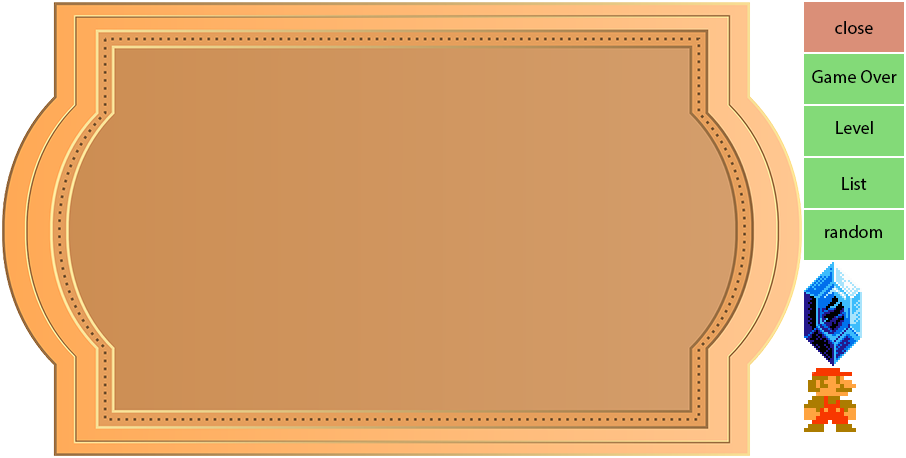
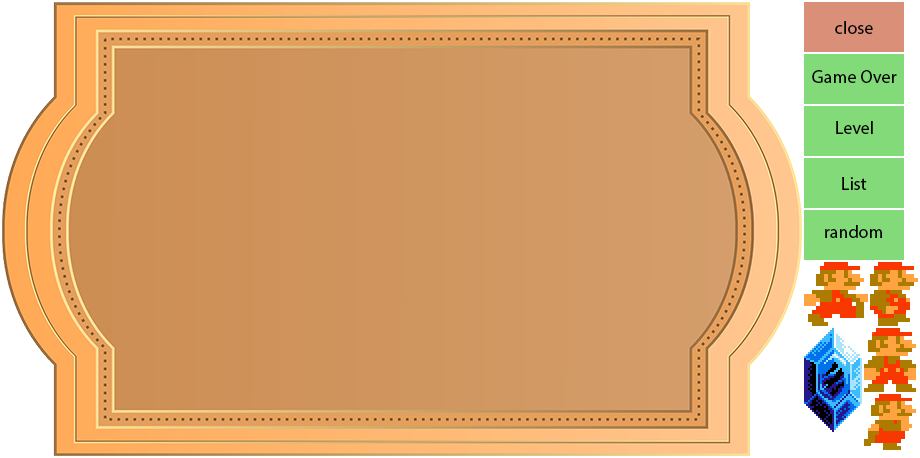
(Working) Writing Readme

diff --git a/dist/example/js/dialogs.js b/dist/example/js/dialogs.js
@@ -102,7 +102,7 @@ Phaser.Plugin.Dialogs.prototype.createDialog = function createDialog (config) {
         bgScreenAlpha = config.bgScreenAlpha || 0.7,
         fadeInType = config.fadeInType || '',
         fadeOutType = config.fadeOutType || '',
-        objects = config.objects || [1,1,1];
+        objects = config.objects || [];
 
     var bgScreen;
     var dialog = this.game.add.group();
@@ -114,7 +114,6 @@ Phaser.Plugin.Dialogs.prototype.createDialog = function createDialog (config) {
 
 
     var initBgScreen = function initBg() {
-      console.log("????", hasBgScreen)
         bgScreen = self.game.add.graphics(0, 0);
         bgScreen.beginFill(bgScreenColor, bgScreenAlpha);
         bgScreen.drawRect(0 - self.game.width * 2, 0 - self.game.height * 2, self.game.width * 4, self.game.height * 4);
@@ -167,7 +166,8 @@ Phaser.Plugin.Dialogs.prototype.createDialog = function createDialog (config) {
                 offsetX = item.offsetX || 0,
                 offsetY = item.offsetY || 0,
                 contentScale = item.contentScale || 1,
-                content = item.content || "",
+                content = item.content || '',
+                animation = item.animation || [],
                 callback = item.callback || false,
                 label;
 
@@ -197,12 +197,17 @@ Phaser.Plugin.Dialogs.prototype.createDialog = function createDialog (config) {
             if (type === "image") {
                 if(spriteSheet !== '') {
                   label = self.game.add.sprite(0, 0, spriteSheet, content);
+                  if(animation.length > 0) {
+                    label.animations.add('anim', animation);
+                    label.animations.play('anim', 10, true);
+                  }
                 } else{
                   label = self.game.add.sprite(0, 0, content);
                 }
                 label.scale.setTo(contentScale, contentScale);
                 label.x = (0 - ((label.width) / 2)) + offsetX;
                 label.y = (0 - ((label.height) / 2)) + offsetY;
+
                 if(callback) {
                   label.inputEnabled = true;
                   label.events.onInputDown.add(callback, self)

diff --git a/src/dialogs.js b/src/dialogs.js
@@ -102,7 +102,7 @@ Phaser.Plugin.Dialogs.prototype.createDialog = function createDialog (config) {
         bgScreenAlpha = config.bgScreenAlpha || 0.7,
         fadeInType = config.fadeInType || '',
         fadeOutType = config.fadeOutType || '',
-        objects = config.objects || [1,1,1];
+        objects = config.objects || [];
 
     var bgScreen;
     var dialog = this.game.add.group();
@@ -114,7 +114,6 @@ Phaser.Plugin.Dialogs.prototype.createDialog = function createDialog (config) {
 
 
     var initBgScreen = function initBg() {
-      console.log("????", hasBgScreen)
         bgScreen = self.game.add.graphics(0, 0);
         bgScreen.beginFill(bgScreenColor, bgScreenAlpha);
         bgScreen.drawRect(0 - self.game.width * 2, 0 - self.game.height * 2, self.game.width * 4, self.game.height * 4);
@@ -167,7 +166,8 @@ Phaser.Plugin.Dialogs.prototype.createDialog = function createDialog (config) {
                 offsetX = item.offsetX || 0,
                 offsetY = item.offsetY || 0,
                 contentScale = item.contentScale || 1,
-                content = item.content || "",
+                content = item.content || '',
+                animation = item.animation || [],
                 callback = item.callback || false,
                 label;
 
@@ -197,12 +197,17 @@ Phaser.Plugin.Dialogs.prototype.createDialog = function createDialog (config) {
             if (type === "image") {
                 if(spriteSheet !== '') {
                   label = self.game.add.sprite(0, 0, spriteSheet, content);
+                  if(animation.length > 0) {
+                    label.animations.add('anim', animation);
+                    label.animations.play('anim', 10, true);
+                  }
                 } else{
                   label = self.game.add.sprite(0, 0, content);
                 }
                 label.scale.setTo(contentScale, contentScale);
                 label.x = (0 - ((label.width) / 2)) + offsetX;
                 label.y = (0 - ((label.height) / 2)) + offsetY;
+
                 if(callback) {
                   label.inputEnabled = true;
                   label.events.onInputDown.add(callback, self)

diff --git a/dist/example/js/game.js b/dist/example/js/game.js
@@ -104,7 +104,6 @@ module.exports = Menu;
       this.bg = this.game.add.sprite(-300,-300,'bg');
 
       var buttons = ['game-over-btn', 'level-btn', 'list-btn', 'random-btn'];
-
       var dialogs = [
         {
           name: 'gameOver',
@@ -205,9 +204,8 @@ module.exports = Menu;
         },
         {
           name: 'random',
-          closeBtnSprite: 'closeBtn',
+          spriteSheet: 'popup',
           btnOffsetY: 100,
-          bgImg: 'yeoman',
           hasBgScreen: true,
           bgScreenColor: 0x55ffff,
           hasEasyClose: true,
@@ -216,37 +214,36 @@ module.exports = Menu;
           objects: [
             {
               type: 'text',
-              color: '#ff55ff',
+              color: '#000',
               fontFamily: 'Arial',
               fontSize: 52,
               offsetX: 0,
               offsetY: -100,
-              content: "Hello World"
+              content: "Random Mario animation"
             },
             {
               type: 'image',
-              offsetY: -200,
-              offsetX: -200,
-              content: "yeoman"
+              offsetX: -30,
+              content: "mario"
             },
             {
               type: 'image',
-              offsetY: -200,
-              offsetX: 200,
-              content: "yeoman"
+              offsetX: 30,
+              content: "mario",
+              animation: ['mario0', 'mario1', 'mario2']
             }
           ]
         }
       ];
+      this.game.Dialogs.createDialog({});
 
       for(var i = 0; i < 4; i++){
-        var self = this;
-        var sprite = this.game.add.sprite(200 * i + 50, self.game.height/2 - 20, 'popup', buttons[i]);
+        var self = this,
+            sprite = this.game.add.sprite(200 * i + 50, self.game.height/2 - 20, 'popup', buttons[i]);
         sprite.inputEnabled = true;
         sprite.anchor.y = 0.5;
         (function (i) {
           sprite.events.onInputDown.add(function () {
-            console.log(i);
             self.game.Dialogs.createDialog(dialogs[i]);
           }, this);
         })(i);

diff --git a/example/game/states/play.js b/example/game/states/play.js
@@ -7,7 +7,6 @@
       this.bg = this.game.add.sprite(-300,-300,'bg');
 
       var buttons = ['game-over-btn', 'level-btn', 'list-btn', 'random-btn'];
-
       var dialogs = [
         {
           name: 'gameOver',
@@ -108,9 +107,8 @@
         },
         {
           name: 'random',
-          closeBtnSprite: 'closeBtn',
+          spriteSheet: 'popup',
           btnOffsetY: 100,
-          bgImg: 'yeoman',
           hasBgScreen: true,
           bgScreenColor: 0x55ffff,
           hasEasyClose: true,
@@ -119,37 +117,36 @@
           objects: [
             {
               type: 'text',
-              color: '#ff55ff',
+              color: '#000',
               fontFamily: 'Arial',
               fontSize: 52,
               offsetX: 0,
               offsetY: -100,
-              content: "Hello World"
+              content: "Random Mario animation"
             },
             {
               type: 'image',
-              offsetY: -200,
-              offsetX: -200,
-              content: "yeoman"
+              offsetX: -30,
+              content: "mario"
             },
             {
               type: 'image',
-              offsetY: -200,
-              offsetX: 200,
-              content: "yeoman"
+              offsetX: 30,
+              content: "mario",
+              animation: ['mario0', 'mario1', 'mario2']
             }
           ]
         }
       ];
+      this.game.Dialogs.createDialog({});
 
       for(var i = 0; i < 4; i++){
-        var self = this;
-        var sprite = this.game.add.sprite(200 * i + 50, self.game.height/2 - 20, 'popup', buttons[i]);
+        var self = this,
+            sprite = this.game.add.sprite(200 * i + 50, self.game.height/2 - 20, 'popup', buttons[i]);
         sprite.inputEnabled = true;
         sprite.anchor.y = 0.5;
         (function (i) {
           sprite.events.onInputDown.add(function () {
-            console.log(i);
             self.game.Dialogs.createDialog(dialogs[i]);
           }, this);
         })(i);

diff --git a/readme.md b/readme.md
@@ -1,0 +1,22 @@
+#Phaser Dialogs plugin
+
+Dialogs is a plugin to help you out with the creation of dialogs on your game.
+
+
+##How to install the plugin
+
+Add this line of code on the same state were you want to create the dialogs.
+
+```javascript
+ game.Dialogs = this.game.plugins.add(new Phaser.Plugin.Dialogs(this.game));
+```
+
+It is necessary to pass the `game` to the `constructor` of the Plugin.
+
+After the instantiation of the `Dialogs` plugin, you can now create a dialog simply calling
+ 
+ ```javascript
+ game.Dialogs.createDialog(options)
+ ```
+
+The object `options` is were all the configurations of the popup are created.
